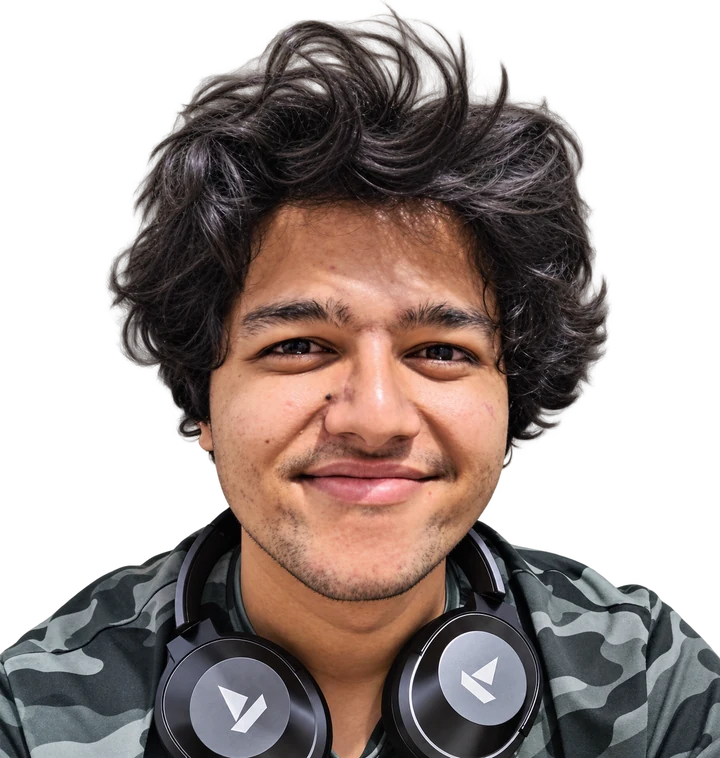
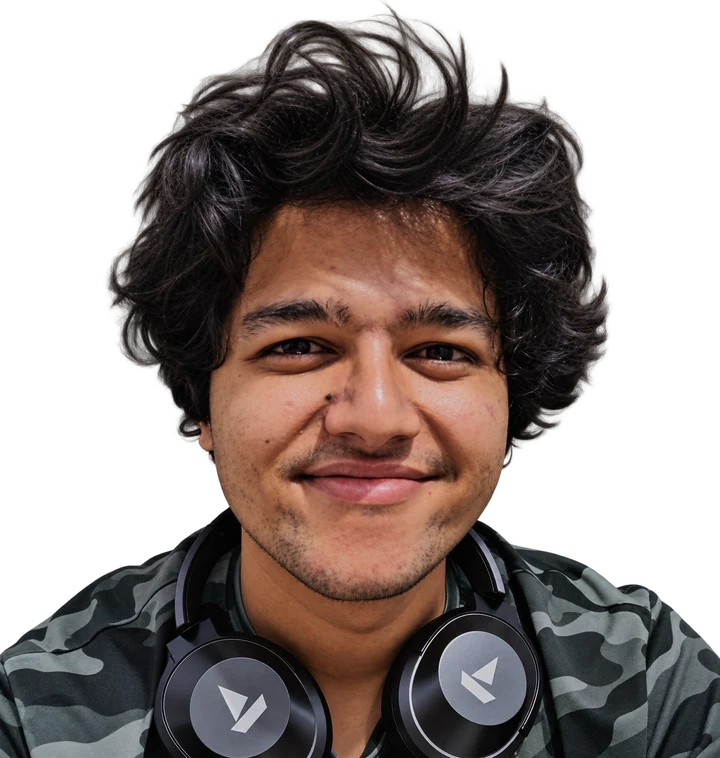
Show the whole photo and soften the light on the face

diff --git a/app/globals.css b/app/globals.css
@@ -56,7 +56,7 @@ a { color: inherit; }
 .kicker .place:hover { color: var(--gold); border-color: var(--gold); }
 .hero .wrap { grid-template-columns: minmax(0, 1fr) auto; column-gap: 56px; }
 .hero .wrap > * { grid-column: 1; }
-.hero .hero-photo { grid-column: 2; grid-row: 2 / span 3; align-self: start; margin-top: 10px; width: clamp(220px, 25vw, 360px); height: auto; aspect-ratio: 720 / 758; object-fit: contain; -webkit-mask-image: linear-gradient(to bottom, #000 62%, transparent 98%); mask-image: linear-gradient(to bottom, #000 62%, transparent 98%); filter: drop-shadow(0 0 24px rgba(5,5,9,.55)); }
+.hero .hero-photo { grid-column: 2; grid-row: 2 / span 3; align-self: start; margin-top: 10px; width: clamp(220px, 25vw, 360px); height: auto; aspect-ratio: 720 / 758; object-fit: contain; filter: drop-shadow(0 0 24px rgba(5,5,9,.55)); }
 .hero h1 { margin: 0; font: 400 clamp(58px, 11.5vw, 168px)/.9 var(--display); letter-spacing: -.02em; text-wrap: balance; }
 .hero h1 em { font-style: normal; color: var(--gold); }
 /* Beside the photo: size the name to the column left over so "Choudhury" never runs under the photo. */
